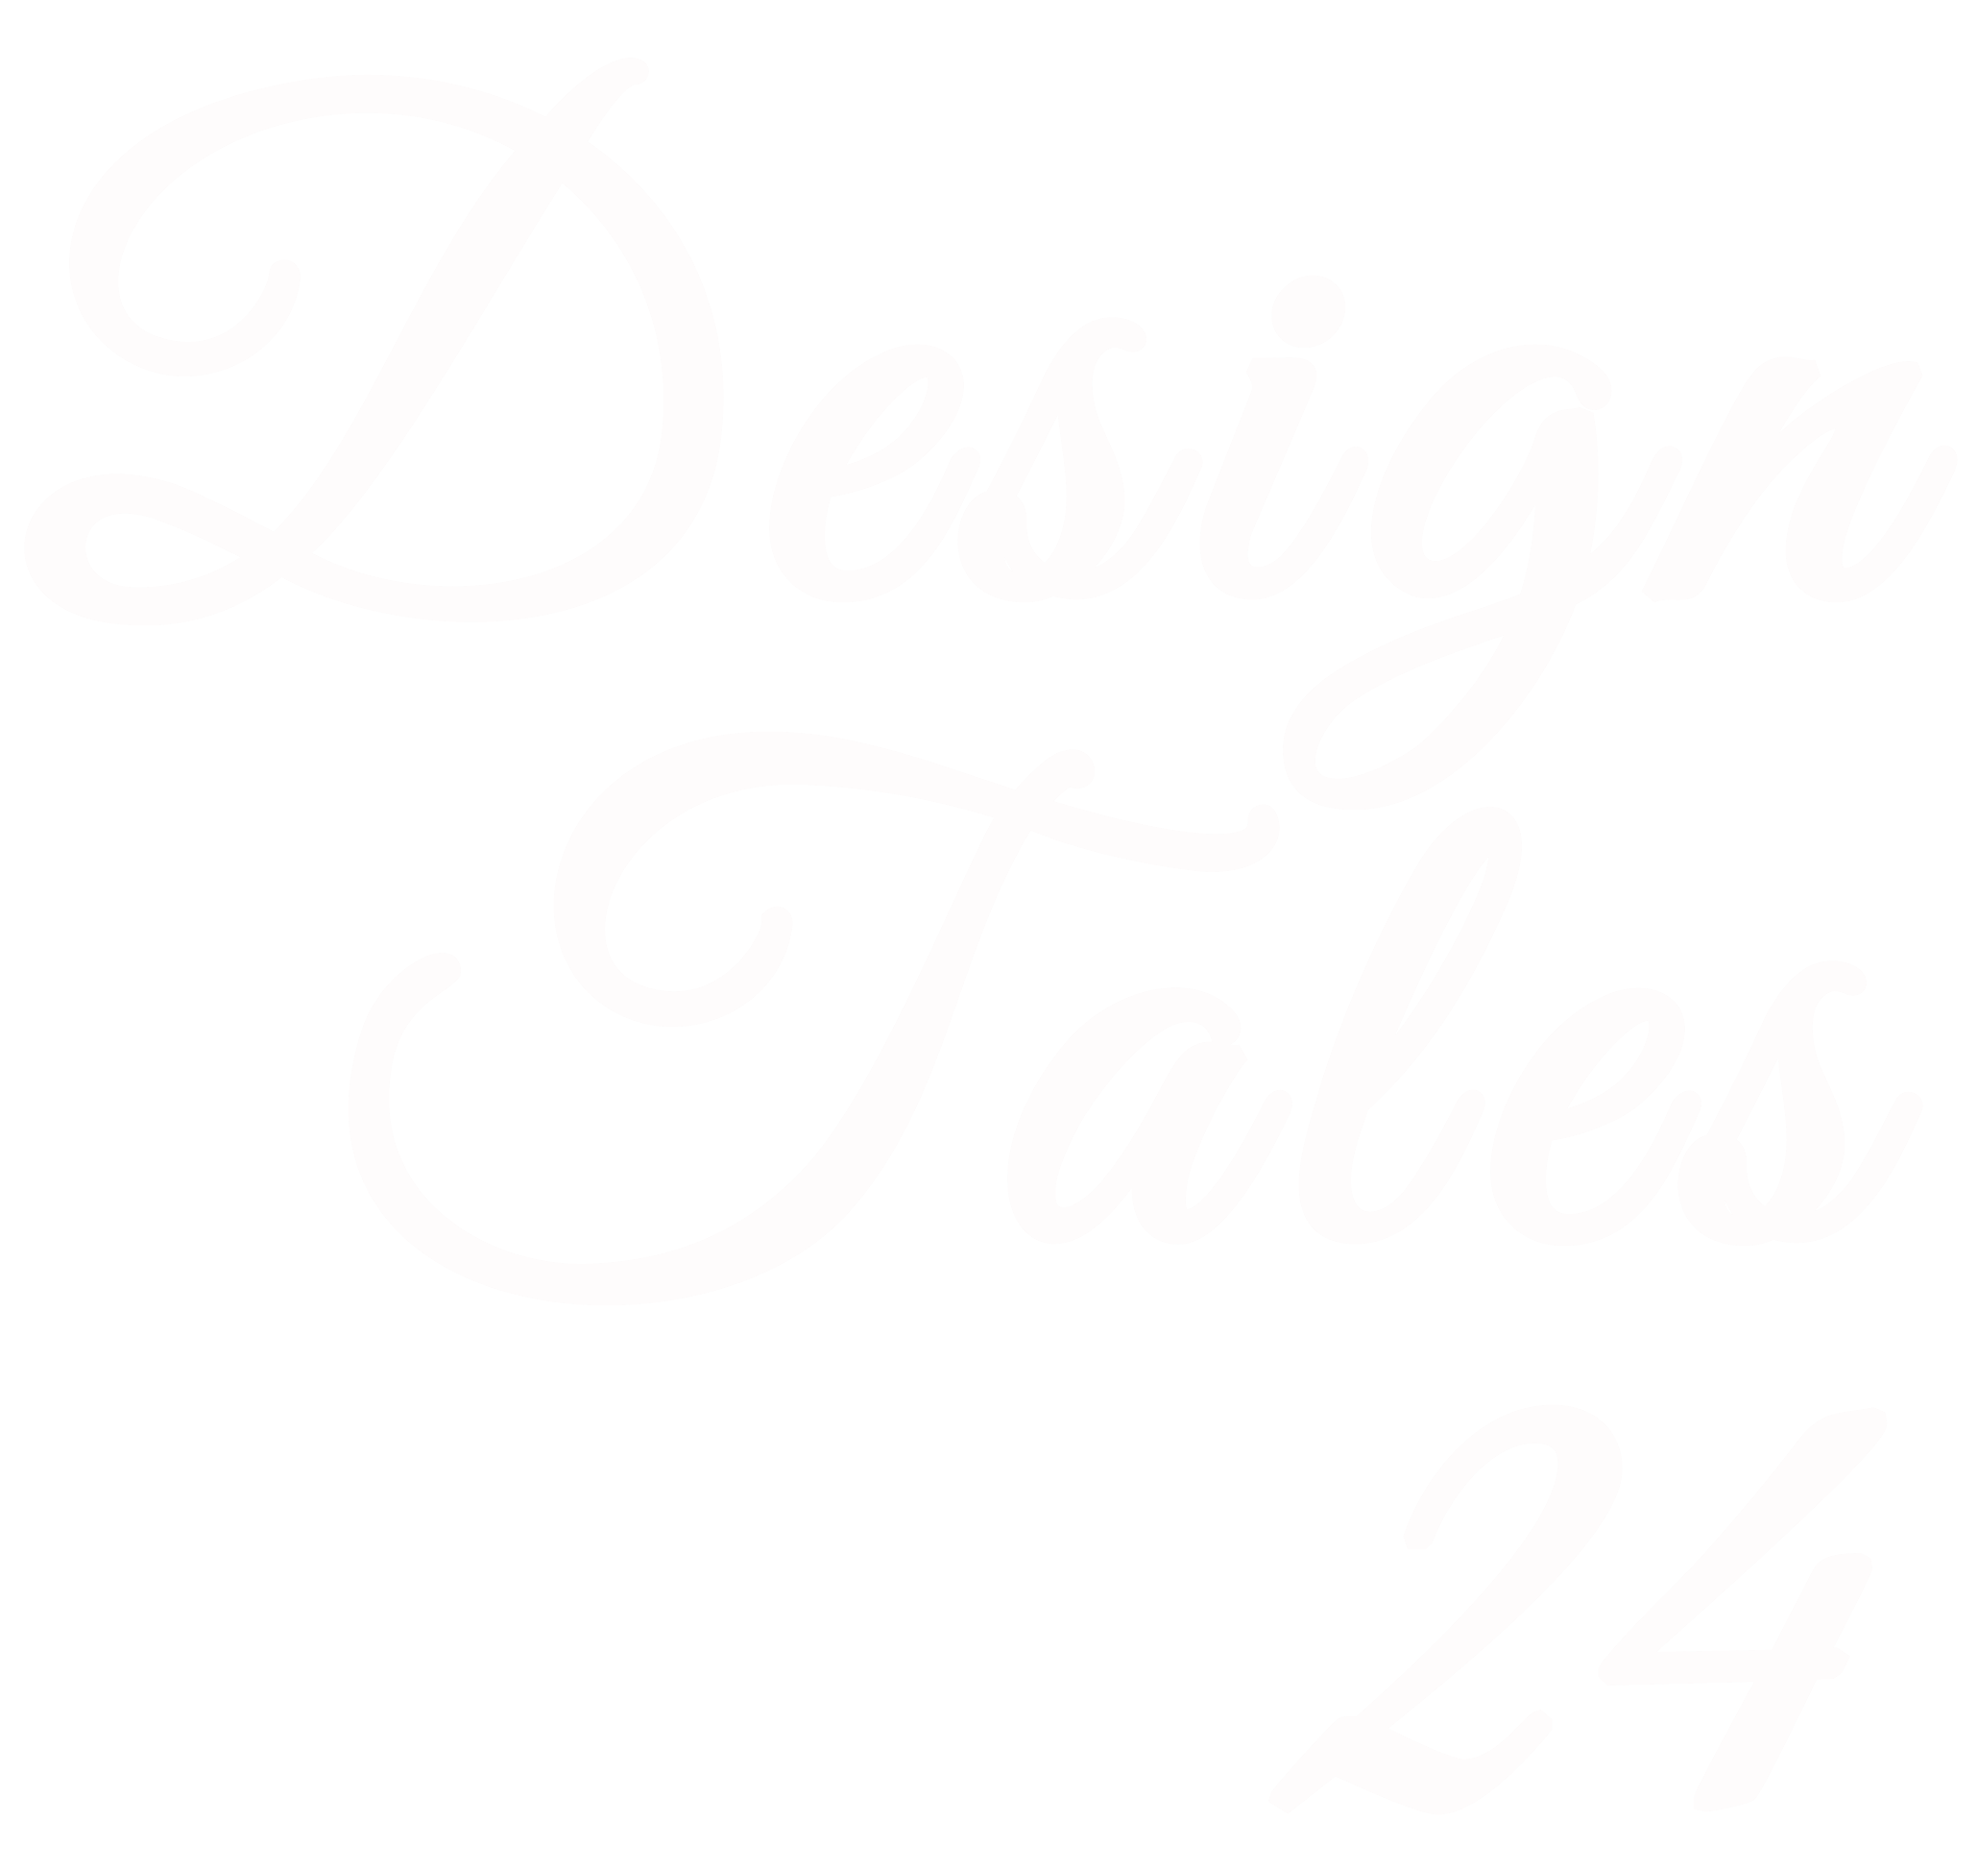
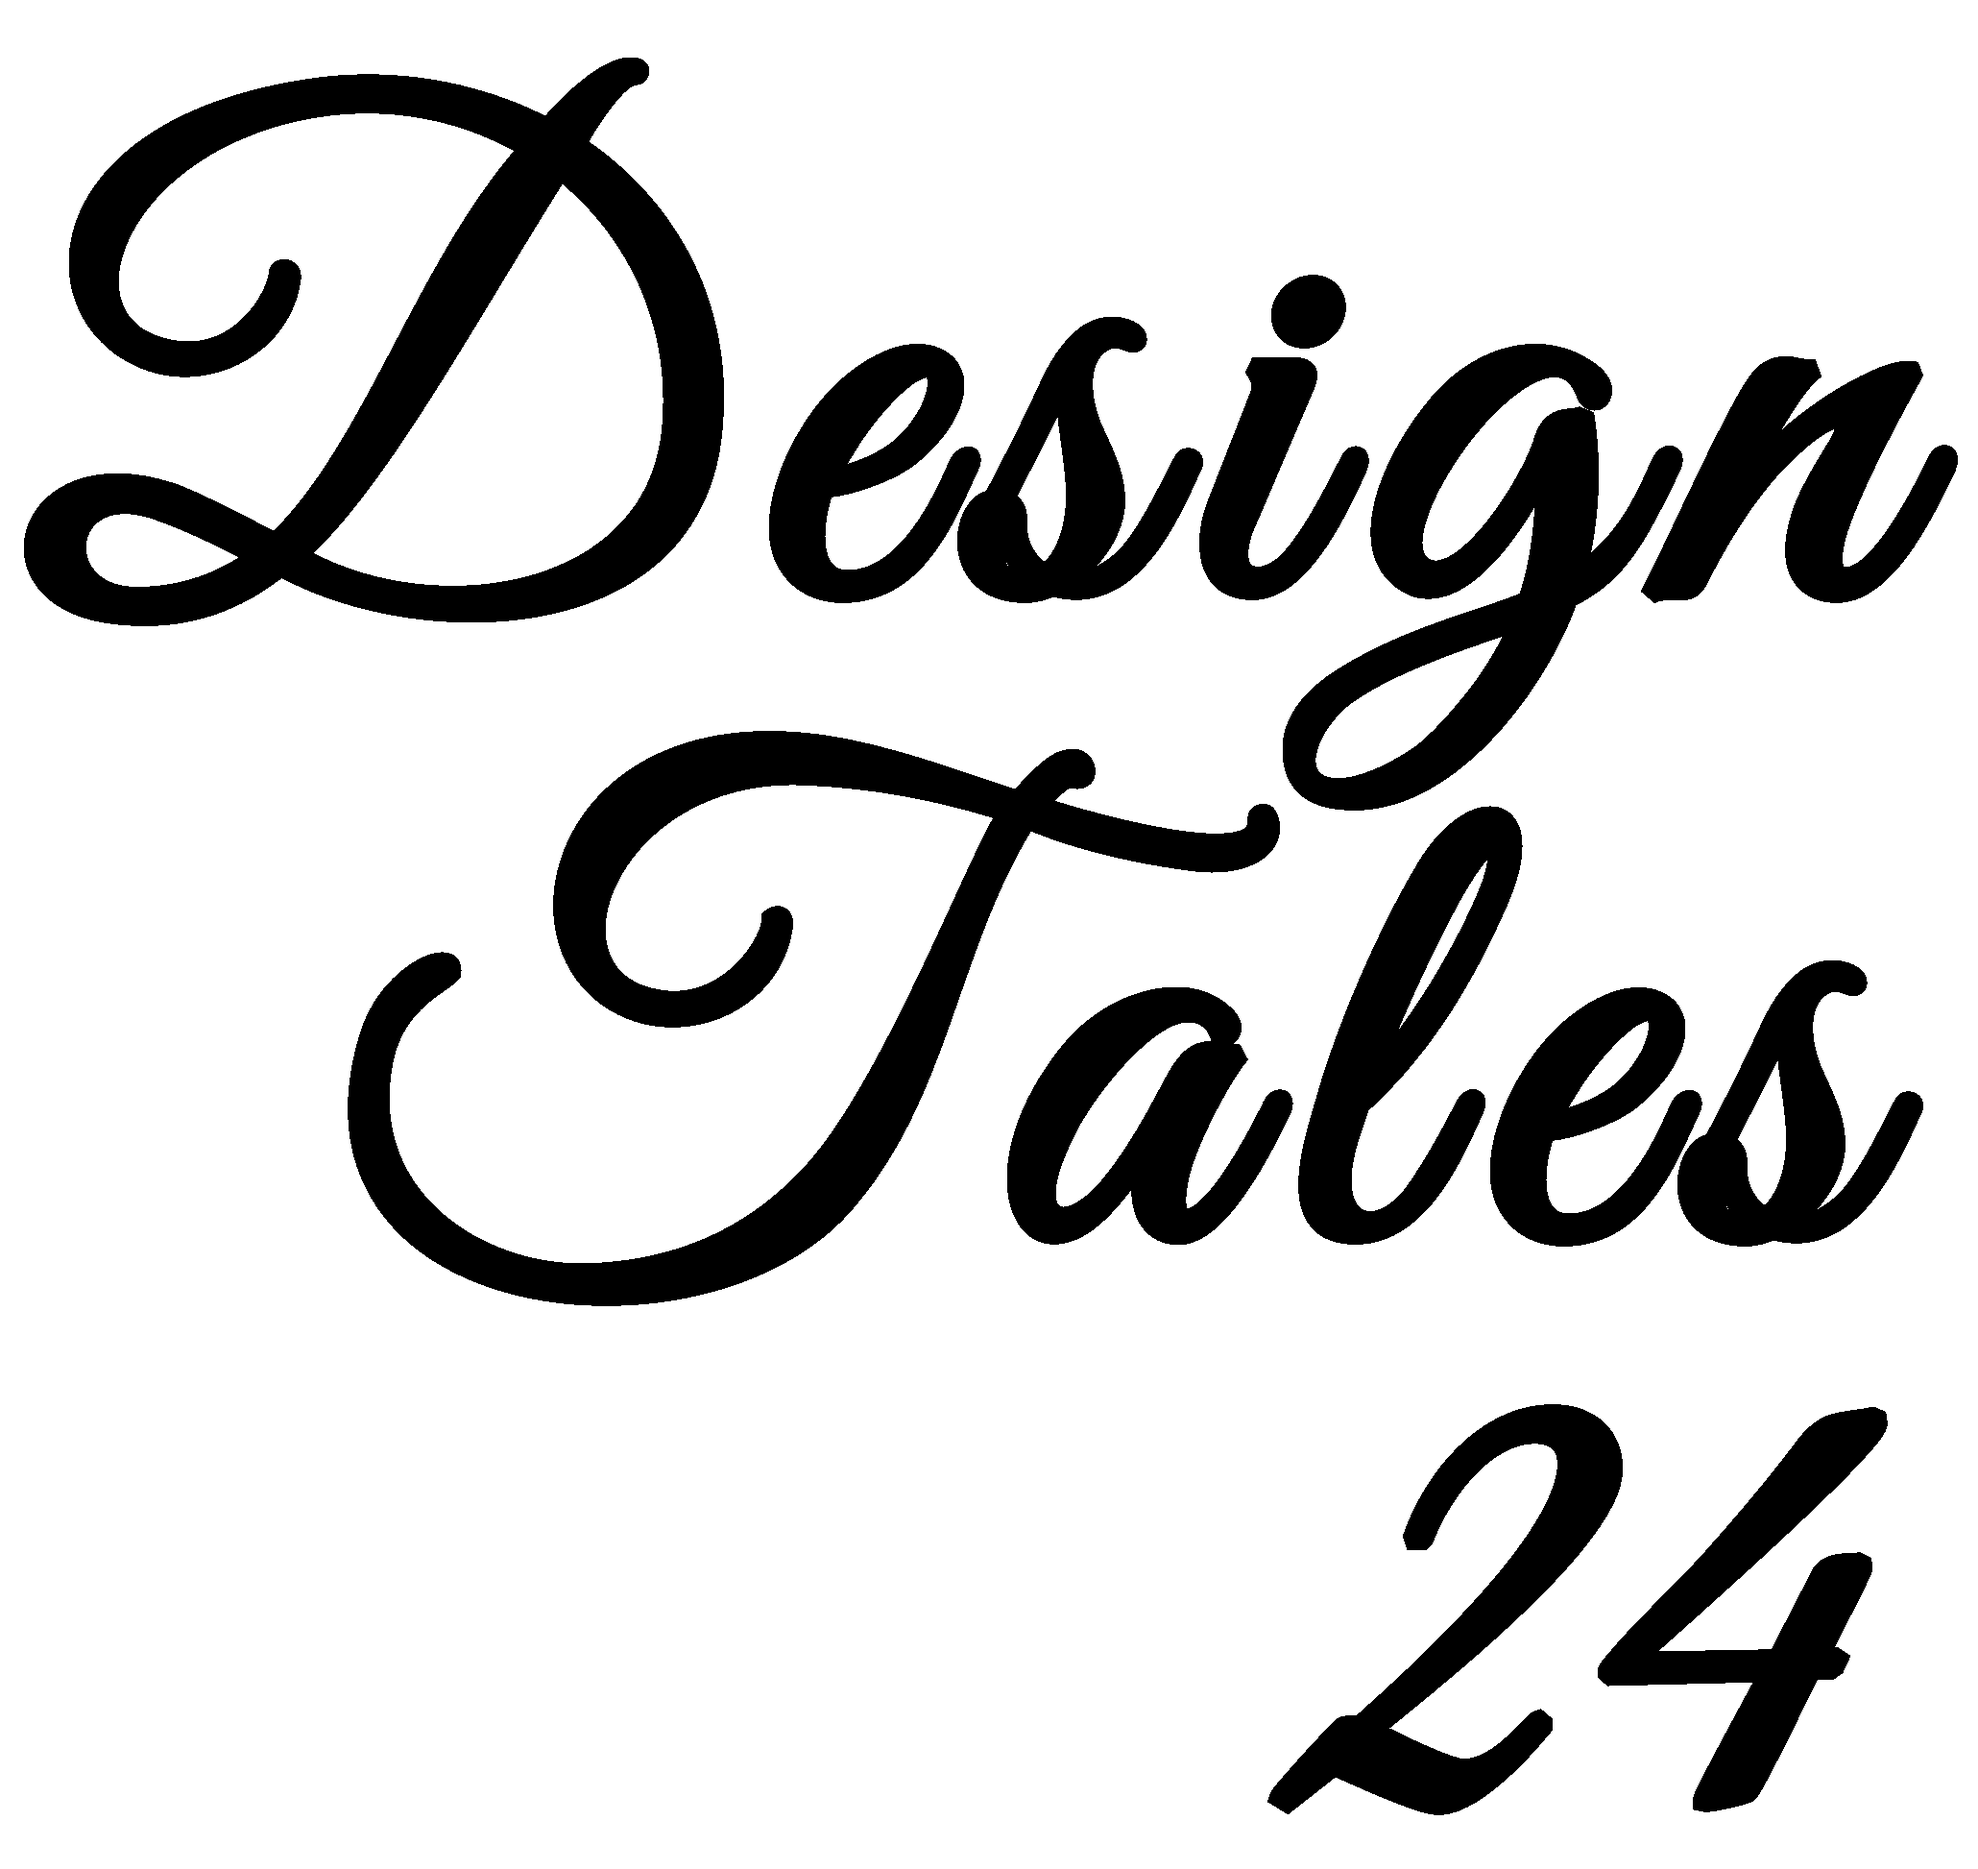
added new images and changed colors in css

diff --git a/index.html b/index.html
@@ -82,8 +82,8 @@
         <div class="row">
           <div class="intro-text">
 	<center> <img src="img/dt.png" height="200" width="200" alt = "logo design tales 24"> </center>
-	    <font size="20" color="White">Writing Your Design Story</font>
-            <p><strong>Design | Renovate | Effectuate</strong></p>
+	    <font size="20" color="black">Writing Your Design Story</font>
+            <p style="color: black;"><strong>Design | Renovate | Effectuate</strong></p>
             <a href="#about" class="btn btn-custom btn-lg page-scroll">Learn More</a> </div>
         </div>
       </div>
@@ -111,7 +111,7 @@ Our unmatched passion and unsatiated hunger to achieve excellence and our willin
 our clients and offer them the most suitable solutions is what gives us an edge. 
 We would make it a mission to source you the best deals without compromising on the quality.</p>
           <h3>"Why the name?"</h3>
-          <p>We are two 24 year olds, high on creativity and passion constantly challenging the conventional way
+          <p>We were two 24 year olds, high on creativity and passion constantly challenging the conventional way
 of thinking. 
 We feel Everybody has a design in mind when it comes to their space, be it their workspace, living
 space or anything else and there is a tale behind every design. <br>
@@ -240,6 +240,30 @@ We will help you select the right colour, finish for your better understanding.<
             </div>
           </div>
         </div>
+        <div class="col-sm-6 col-md-4 col-lg-4 3d">
+          <div class="portfolio-item">
+            <div class="hover-bg">
+              <a href="img/portfolio/3d4.jpg" title="3D" data-lightbox-gallery="gallery1">
+                <div class="hover-text">
+                  <h4>3D</h4>
+                </div>
+                <img src="img/portfolio/3d4.jpg" class="img-responsive" alt="3D"> 
+              </a>
+            </div>
+          </div>
+        </div>
+        <div class="col-sm-6 col-md-4 col-lg-4 3d">
+          <div class="portfolio-item">
+            <div class="hover-bg">
+              <a href="img/portfolio/3d5.jpg" title="3D" data-lightbox-gallery="gallery1">
+                <div class="hover-text">
+                  <h4>3D</h4>
+                </div>
+                <img src="img/portfolio/3d5.jpg" class="img-responsive" alt="3D"> 
+              </a>
+            </div>
+          </div>
+        </div>
         <div class="col-sm-6 col-md-4 col-lg-4 commercial">
           <div class="portfolio-item">
             <div class="hover-bg">
@@ -357,6 +381,54 @@ We will help you select the right colour, finish for your better understanding.<
                   <h4>Residential</h4>
                 </div>
                 <img src="img/portfolio/residence7.jpg" class="img-responsive" alt="Residential"> 
+              </a>
+            </div>
+          </div>
+        </div>
+        <div class="col-sm-6 col-md-4 col-lg-4 residential">
+          <div class="portfolio-item">
+            <div class="hover-bg">
+              <a href="img/portfolio/residence8.jpg" title="Residential" data-lightbox-gallery="gallery1">
+                <div class="hover-text">
+                  <h4>Residential</h4>
+                </div>
+                <img src="img/portfolio/residence8.jpg" class="img-responsive" alt="Residential"> 
+              </a>
+            </div>
+          </div>
+        </div>
+        <div class="col-sm-6 col-md-4 col-lg-4 residential">
+          <div class="portfolio-item">
+            <div class="hover-bg">
+              <a href="img/portfolio/residence9.jpg" title="Residential" data-lightbox-gallery="gallery1">
+                <div class="hover-text">
+                  <h4>Residential</h4>
+                </div>
+                <img src="img/portfolio/residence9.jpg" class="img-responsive" alt="Residential"> 
+              </a>
+            </div>
+          </div>
+        </div>
+        <div class="col-sm-6 col-md-4 col-lg-4 residential">
+          <div class="portfolio-item">
+            <div class="hover-bg">
+              <a href="img/portfolio/residence10.jpg" title="Residential" data-lightbox-gallery="gallery1">
+                <div class="hover-text">
+                  <h4>Residential</h4>
+                </div>
+                <img src="img/portfolio/residence10.jpg" class="img-responsive" alt="Residential"> 
+              </a>
+            </div>
+          </div>
+        </div>
+        <div class="col-sm-6 col-md-4 col-lg-4 residential">
+          <div class="portfolio-item">
+            <div class="hover-bg">
+              <a href="img/portfolio/residence11.jpg" title="Residential" data-lightbox-gallery="gallery1">
+                <div class="hover-text">
+                  <h4>Residential</h4>
+                </div>
+                <img src="img/portfolio/residence11.jpg" class="img-responsive" alt="Residential"> 
               </a>
             </div>
           </div>
@@ -553,7 +625,7 @@ Having a professional Interior Designer on your team who has the knowledge and e
     </div>
     <div class="col-md-8">
       <h3>Leave us a message</h3>
-      <form name="sentMessage" id="contactForm" novalidate>
+      <form action="http://formspree.io/you@email.com" method="post" name="sentMessage" id="contactForm" novalidate>
         <div class="row">
           <div class="col-md-6">
             <div class="form-group">
@@ -563,7 +635,7 @@ Having a professional Interior Designer on your team who has the knowledge and e
           </div>
           <div class="col-md-6">
             <div class="form-group">
-              <input type="email" id="email" class="form-control" placeholder="Email" required="required">
+              <input type="email" id="email" class="form-control" placeholder="Email" required="required" name="Email">
               <p class="help-block text-danger"></p>
             </div>
           </div>

diff --git a/css/style.css b/css/style.css
@@ -2,7 +2,7 @@ body, html {
 	font-family: 'Roboto', lucida;
 	text-rendering: optimizeLegibility !important;
 	-webkit-font-smoothing: antialiased !important;
-	color: #777;
+	color: black;
 	font-weight: 300;
 	width: 100% !important;
 	height: 100% !important;
@@ -82,7 +82,7 @@ hr {
 	width: 70px;
 	text-align: center;
 	position: relative;
-	background: #a7c44c;
+	background: #f2e7e5;
 	margin: 0 auto;
 	margin-bottom: 20px;
 	border: 0;
@@ -115,7 +115,7 @@ a:focus, .btn:focus, .btn:active:focus, .btn.active:focus, .btn.focus, .btn:acti
 }
 #menu.navbar-default .navbar-nav > li > a {
 	text-transform: uppercase;
-	color: #a7c44c;
+	color: black;
 	font-weight: 400;
 	font-size: 15px;
 	padding: 5px 0;
@@ -127,20 +127,20 @@ a:focus, .btn:focus, .btn:active:focus, .btn.active:focus, .btn.focus, .btn:acti
 	color: #eee;
 }
 .on {
-	background-color: #363636 !important;
+	background-color: #f2e7e5 !important;
 	padding: 0 !important;
 	padding: 10px 0 !important;
 }
 .navbar-default .navbar-nav > .active > a, .navbar-default .navbar-nav > .active > a:hover, .navbar-default .navbar-nav > .active > a:focus {
-	color: #eee !important;
+	color: black !important;
 	background-color: transparent;
 }
 .navbar-toggle {
 	border-radius: 0;
 }
 .navbar-default .navbar-toggle:hover, .navbar-default .navbar-toggle:focus {
-	background-color: #a7c44c;
-	border-color: #a7c44c;
+	background-color: #f2e7e5;
+	border-color: #f2e7e5;
 }
 .navbar-default .navbar-toggle:hover>.icon-bar {
 	background-color: #FFF;
@@ -154,8 +154,8 @@ a:focus, .btn:focus, .btn:active:focus, .btn.active:focus, .btn.focus, .btn:acti
 .btn-custom {
 	text-transform: uppercase;
 	color: #fff;
-	text-shadow: 0 0 3px #859c3c;
-	background-color: #a7c44c;
+	text-shadow: 0 0 3px #f2e7e5;
+	background-color: black;
 	border: 0;
 	padding: 14px 20px;
 	margin: 0;
@@ -166,7 +166,7 @@ a:focus, .btn:focus, .btn:active:focus, .btn.active:focus, .btn.focus, .btn:acti
 }
 .btn-custom:hover, .btn-custom:focus, .btn-custom.focus, .btn-custom:active, .btn-custom.active {
 	color: rgba(255,255,255,0.8);
-	background-color: #94ae44;
+	background-color: black;
 }
 /* Header Section */
 .intro {
@@ -181,7 +181,6 @@ a:focus, .btn:focus, .btn:active:focus, .btn.active:focus, .btn.focus, .btn:acti
 	-o-background-size: cover;
 }
 .intro .overlay {
-	background: rgba(0,0,0,0.40);
 }
 .intro h1 {
 	color: #fff;
@@ -192,7 +191,7 @@ a:focus, .btn:focus, .btn:active:focus, .btn.active:focus, .btn.focus, .btn:acti
 	letter-spacing: -1px;
 }
 .intro span {
-	color: #a7c44c;
+	color: #f2e7e5;
 	font-weight: 600;
 }
 .intro p {
@@ -223,7 +222,7 @@ header .intro-text {
 #about img {
 	display: inline-block;
 	border-radius: 100px 0 100px 0;
-	box-shadow: -15px 0 #a7c44c;
+	box-shadow: -15px 0 #f2e7e5;
 }
 #about p {
 	line-height: 24px;
@@ -239,7 +238,7 @@ header .intro-text {
 #services img {
 	width: 300px;
 	border-radius: 75px 0 75px 0;
-	box-shadow: 15px 0 #a7c44c;
+	box-shadow: 15px 0 #f2e7e5;
 }
 #services h3 {
 	padding: 10px 0;
@@ -262,22 +261,22 @@ ol.type li {
 	margin-left: 20px;
 }
 ol.type li a {
-	color: #a7c44c;
+	color: black;
 	font-weight: 400;
 	font-size: 15px;
 	padding: 10px 20px;
-	border: 2px solid #a7c44c;
+	border: 2px solid #f2e7e5;
 	border-radius: 10px 0 10px 0;
 	text-transform: uppercase;
 	letter-spacing: 0.5px;
 }
 ol.type li a.active {
-	background: #a7c44c;
-	color: #fff;
+	background: #f2e7e5;
+	color: black;
 }
 ol.type li a:hover {
-	background: #a7c44c;
-	color: #fff;
+	background: #f2e7e5;
+	color: black;
 }
 .isotope-item {
 	z-index: 2
@@ -354,21 +353,21 @@ ol.type li a:hover {
 /* Team Section */
 #team {
 	color: #fff;
-	background: #a7c44c url(../img/team-bg.jpg) center top no-repeat;
+	background: #f2e7e5 url(../img/team-bg.jpg) center top no-repeat;
 	background-size: cover;
 }
 #team .overlay {
 	padding: 120px 0;
-	background: rgba(167, 196, 76, 0.9);
+	background: #f2e7e5;
 }
 #team h2, #team p {
-	color: #fff;
+	color:black;
 }
 #team hr {
 	background: #fff;
 }
 #team h3 {
-	color: #fff;
+	color: black;
 	font-weight: 500;
 	font-size: 20px;
 	margin: 5px 0;
@@ -377,7 +376,7 @@ ol.type li a:hover {
 	width: 200px;
 	height: 200px;
 	border-radius: 50px 0 50px 0;
-	box-shadow: 15px 0 #96b044;
+	box-shadow: 15px 0 #f2e7e5;
 }
 #team .thumbnail {
 	background: transparent;
@@ -476,7 +475,7 @@ color: #777;
 #footer .social i.fa {
 	font-size: 26px;
 	padding: 4px;
-	color: #a7c44c;
+	color: #f2e7e5;
 	transition: all 0.3s;
 }
 #footer .social i.fa:hover {
@@ -489,5 +488,5 @@ color: #777;
 	color: #999;
 }
 #footer a:hover {
-	color: #a7c44c;
+	color: #f2e7e5;
 }
